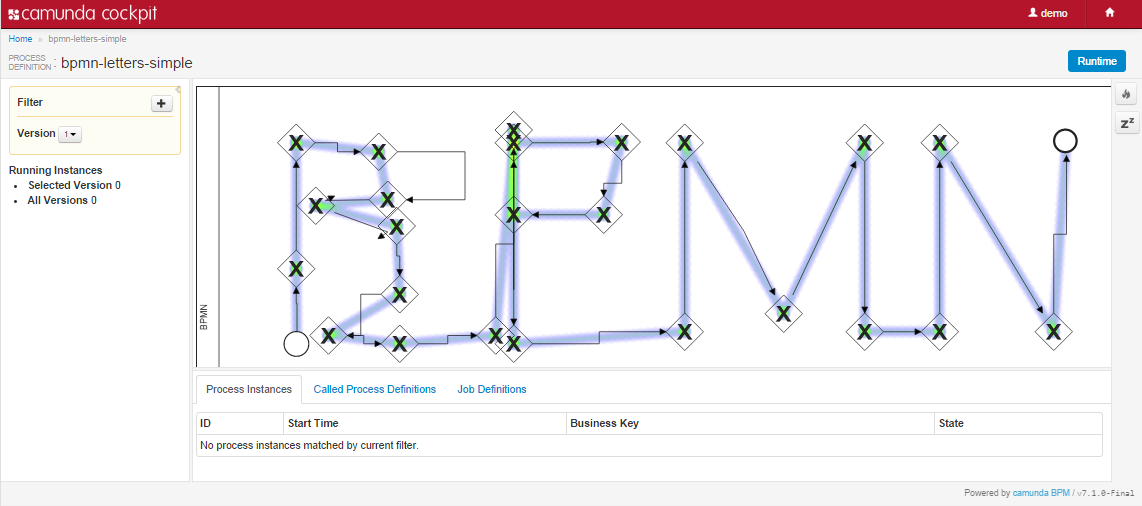
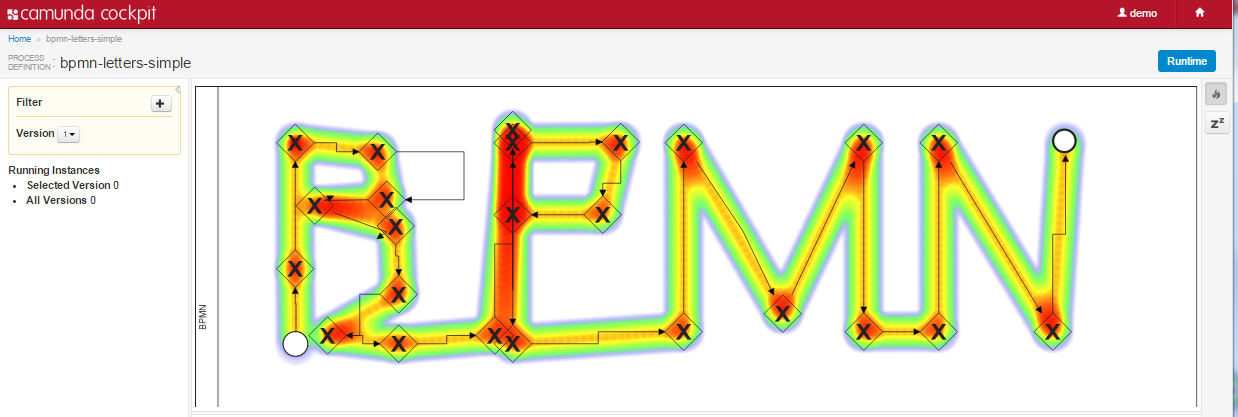
some more screenshots

diff --git a/cockpit-plugin-heatmap/src/main/resources/plugin-webapp/heatmap/app/views/processDefinition/heatmapTab.js b/cockpit-plugin-heatmap/src/main/resources/plugin-webapp/heatmap/app/views/processDefinition/heatmapTab.js
@@ -17,39 +17,39 @@ ngDefine('cockpit.plugin.heatmap.views', function(module) {
     });
     
     
-	var processData = $scope.processData.newChild($scope);   
-	
-	processData.observe(['filter','activityInstanceHistoricStatistics', function(filter,activityInstanceHistoricStatistics) {
-    	
-    	// aufbau der Heatmapdaten:
-    	
-    	// an dieser Stelle kommen die historic-Daten an, mann könnte die
-		// heatmapdaten erzeugen
-    	if(HeatmapService.heatmap){
-    		HeatmapService.clear();
-	    	angular.forEach(activityInstanceHistoricStatistics, function(statsElement) {    				 
-				
-					// find coordinates
-					angular.forEach($scope.$parent.processDiagram.bpmnElements, function(elem){
-						
-						if(elem.id === statsElement.id){
-							 var coord = $scope.getCoordinates(elem);
-							 HeatmapService.heatmap.addData({x:coord.x,y:coord.y,value:1});		
-							$('#'+elem.id).css('z-index', 999);
-						}
-						
-					});
-					
-					//console.log(xx.store);
-			    	
-				
-		     });
-	    	//xx.store.generateRandomDataSet(100);
-    	}
-    	
-        $scope.filter = filter;
-        
-      }]);
+//	var processData = $scope.processData.newChild($scope);   
+//	
+//	processData.observe(['filter','activityInstanceHistoricStatistics', function(filter,activityInstanceHistoricStatistics) {
+//    	
+//    	// aufbau der Heatmapdaten:
+//    	
+//    	// an dieser Stelle kommen die historic-Daten an, mann könnte die
+//		// heatmapdaten erzeugen
+//    	if(HeatmapService.heatmap){
+//    		HeatmapService.clear();
+//	    	angular.forEach(activityInstanceHistoricStatistics, function(statsElement) {    				 
+//				
+//					// find coordinates
+//					angular.forEach($scope.$parent.processDiagram.bpmnElements, function(elem){
+//						
+//						if(elem.id === statsElement.id){
+//							 var coord = $scope.getCoordinates(elem);
+//							 HeatmapService.heatmap.addData({x:coord.x,y:coord.y,value:1});		
+//							$('#'+elem.id).css('z-index', 999);
+//						}
+//						
+//					});
+//					
+//					//console.log(xx.store);
+//			    	
+//				
+//		     });
+//	    	//xx.store.generateRandomDataSet(100);
+//    	}
+//    	
+//        $scope.filter = filter;
+//        
+//      }]);
        
     
     $scope.getCoordinates = function(elem){
@@ -186,7 +186,7 @@ ngDefine('cockpit.plugin.heatmap.views', function(module) {
 	   				
 	   				
 	   			 var config = {
-	   						"radius": 10, 
+	   						"radius": 30, 
 	   						"visible": true,
 	   						"container":document.getElementById('heatmapArea')	   						
 	   					};

diff --git a/cockpit-plugin-heatmap/README.md b/cockpit-plugin-heatmap/README.md
@@ -8,6 +8,7 @@ For this plugin, my idea was simple tranfer historic data to a background-layer 
 You can also think of process mining that way. By realizing the flow with the most heat, you should compare this with your requirements and you are able do a variance analysis between the previously thought common flow and the actual data.
 
 ![Screenshot](Screenshot1.png?raw=true "Screenshot")
+![Screenshot](Screenshot2.png?raw=true "Screenshot")
 
 I have some process models, I was using during development in my other repository. See the sources in [https://github.com/mwiede/camunda-samples/tree/master/camunda-heatmap-examples](https://github.com/mwiede/camunda-samples/tree/master/camunda-heatmap-examples)
 
